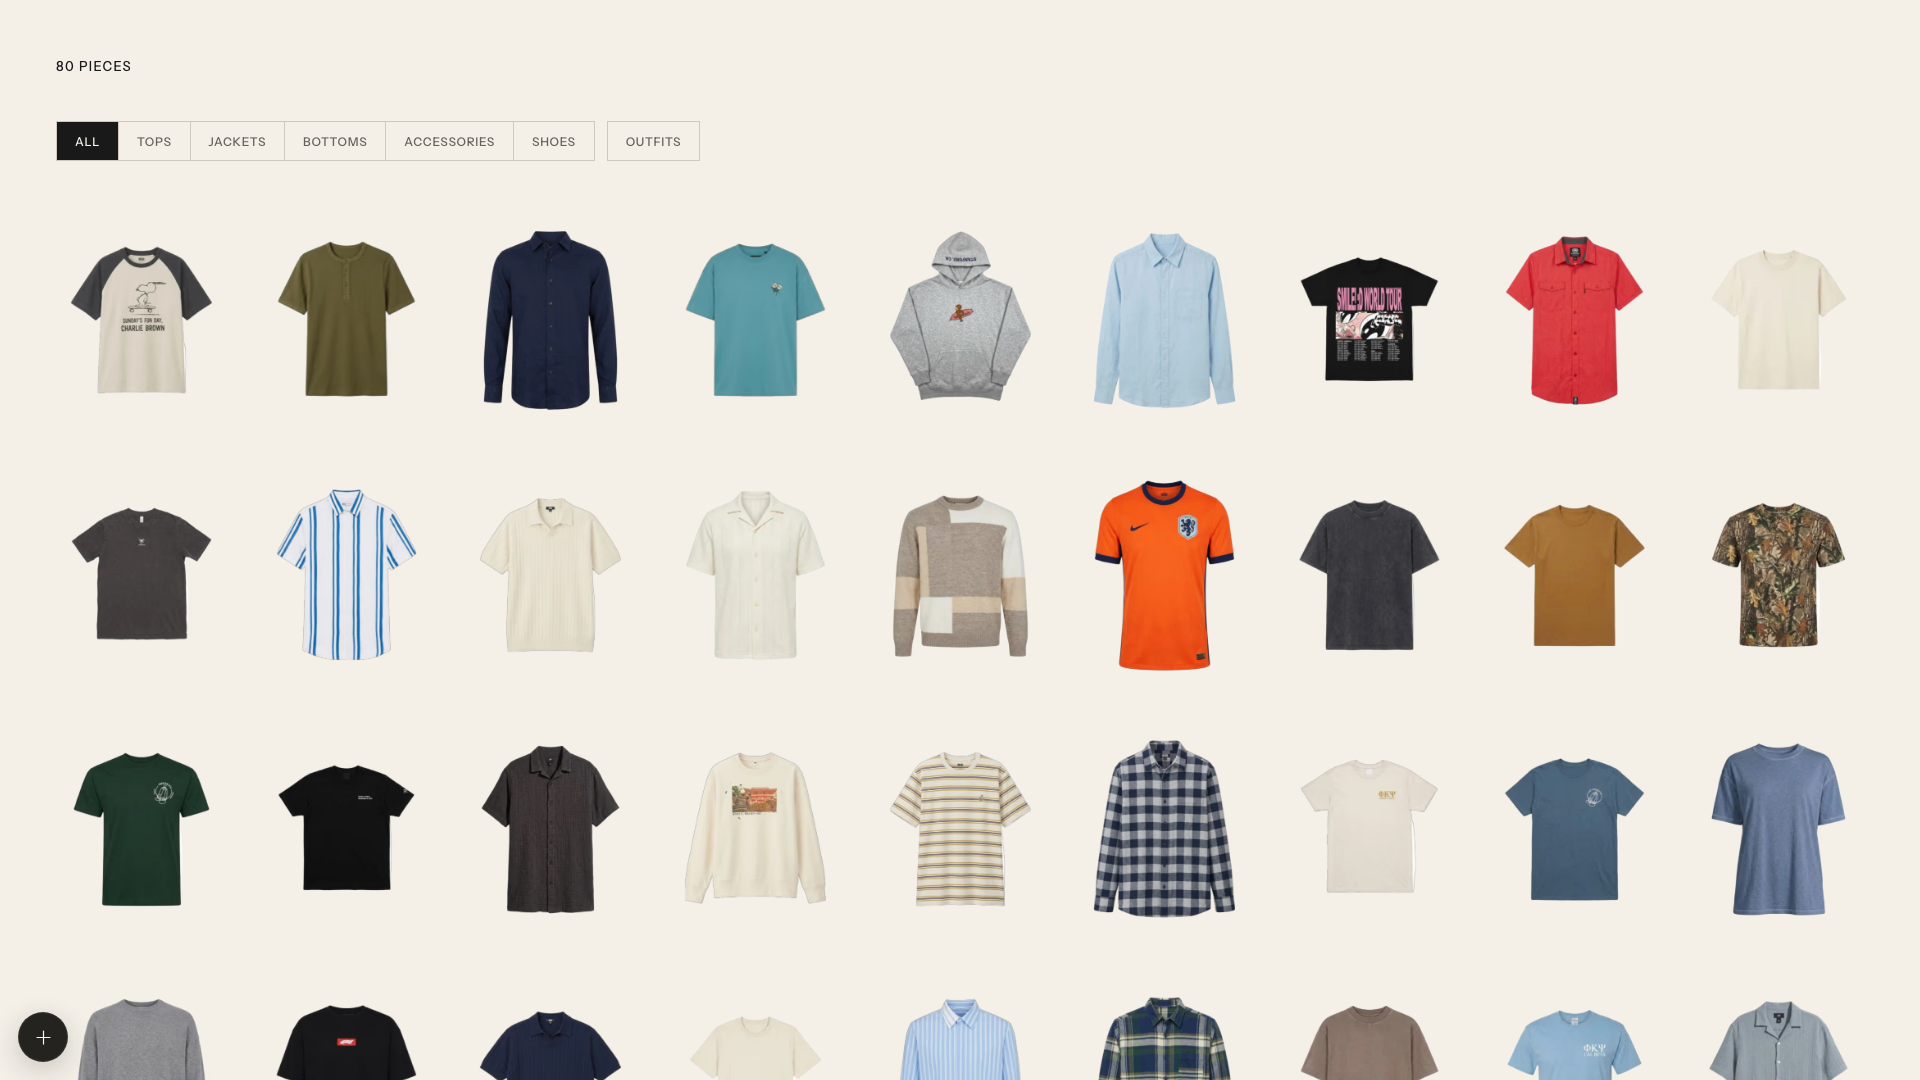
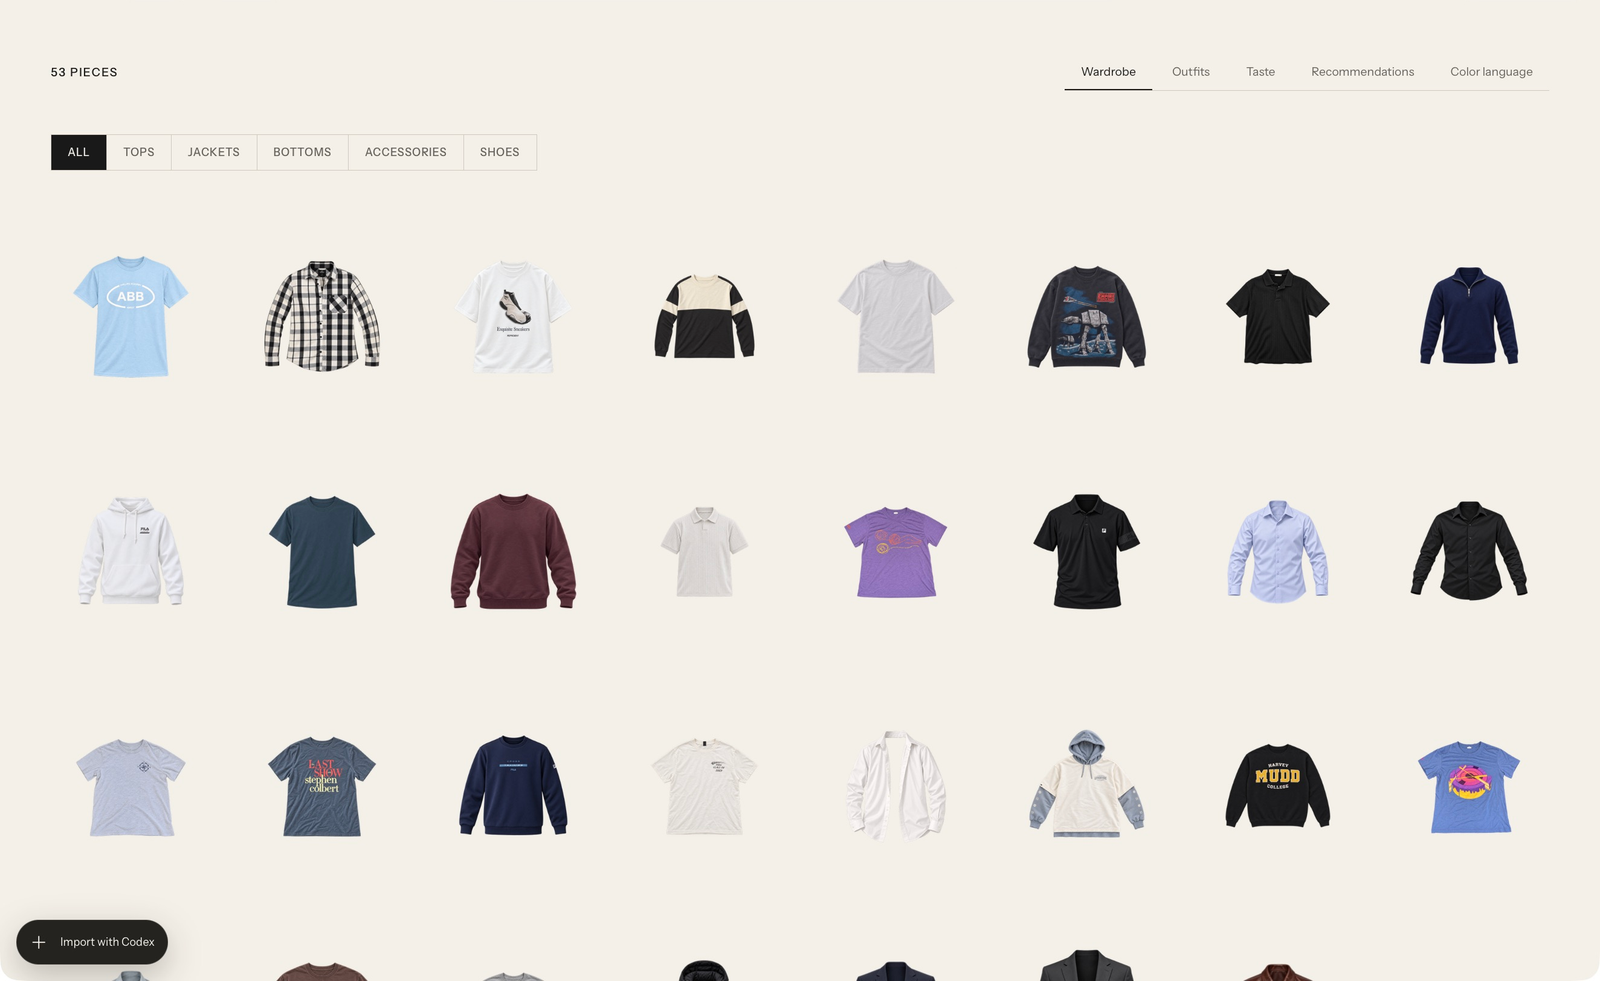
README Updates

diff --git a/README.md b/README.md
@@ -1,12 +1,42 @@
 # Clothes — my wardrobe
 
-A local wardrobe app for organizing clothes, creating outfits, understanding personal style, and finding new pieces that work with an existing collection.
+A local wardrobe app for organizing clothes, planning outfits, and discovering your style.
 
-This project builds on **[Wardrobe](https://github.com/tandpfun/wardrobe) by [Thijs Simonian (@tandpfun)](https://github.com/tandpfun)**. Thank you, Thijs, for creating and sharing the original app. The starting source was copied from upstream commit [`f44006cce7e4779e595a35b25fbbc8dabc68d7e4`](https://github.com/tandpfun/wardrobe/tree/f44006cce7e4779e595a35b25fbbc8dabc68d7e4). This version adds personal setup instructions, an outfit studio, style and color analysis, and shopping recommendations. The original MIT copyright and license are preserved in [LICENSE](LICENSE), alongside the copyright for this version's additions.
+Based on [Wardrobe](https://github.com/tandpfun/wardrobe) by [Thijs Simonian (@tandpfun)](https://github.com/tandpfun), starting from commit [`f44006c`](https://github.com/tandpfun/wardrobe/tree/f44006cce7e4779e595a35b25fbbc8dabc68d7e4). Thank you, Thijs, for sharing the original project. Its MIT license and copyright are preserved in [LICENSE](LICENSE).
 
-## Get started
+## Wardrobe
 
-Use Node.js 22 or newer and npm.
+Browse your clothes, filter by category, and edit each piece.
+
+![Current wardrobe gallery](docs/screenshots/gallery.png)
+
+## Outfits
+
+Combine owned pieces, save looks, and preview them on yourself. [Guide](docs/OUTFIT_STUDIO.md).
+
+![Outfit studio with a saved modeled look](docs/screenshots/outfits.png)
+
+## Taste
+
+See your style overview, with evidence from the clothes you own.
+
+![Taste overview and style influences](docs/screenshots/taste.png)
+
+## Recommendations
+
+Set your budget and preferences; the app refreshes your style, then finds matching products.
+
+![Saved product recommendations and styling suggestions](docs/screenshots/recommendations.png)
+
+## Color language
+
+Explore your wardrobe palette and color combinations. [Guide](docs/TASTE.md).
+
+![Wardrobe palette and color combinations](docs/screenshots/color-language.png)
+
+## Run locally
+
+Requires Node.js 22+ and npm.
 
 ```sh
 git clone https://github.com/heli-belii/clothes.git
@@ -17,40 +47,10 @@ mkdir -p data
 npm run dev -- --host 127.0.0.1
 ```
 
-Open the local address printed by Vite, normally [localhost:5173](http://localhost:5173). A fresh checkout starts with an empty wardrobe. Keep the server running while using the app.
+Open [localhost:5173](http://localhost:5173). Imports default to Codex; API imports are optional. [Setup and hosting](docs/PERSONAL_SETUP.md).
 
-Imports default to `WARDROBE_IMPORT_MODE=codex`; no API key is required for this mode. Open the project in Codex, provide your own clothing photos and identity references, and use the bundled [import-clothes skill](.agents/skills/import-clothes/SKILL.md). The optional browser importer uses separately billed API calls and must be enabled explicitly. See [the setup guide](docs/PERSONAL_SETUP.md) for both workflows.
+## Privacy and checks
 
-## Explore your wardrobe
+Personal photos, wardrobe data, and generated assets stay in Git-ignored `data/`; credentials stay in `.env`. Only reviewed README screenshots are intentionally public.
 
-- **Wardrobe:** Browse imported clothes and edit their details.
-- **Outfits:** Combine owned pieces, save and compare looks, and generate modeled previews. See [the outfit studio guide](docs/OUTFIT_STUDIO.md).
-- **Taste:** View your style profile and the clothing that supports it.
-- **Recommendations:** Set a budget and shopping preferences, then click **Find recommendations**. The app refreshes your style first and automatically researches matching products. Preferences and saved responses stay in this tab.
-- **Color language:** Explore your wardrobe palette and combinations of owned clothes. See [the Taste guide](docs/TASTE.md).
-
-The local outfit, style, and shopping runners use Codex signed in with ChatGPT. Modeled photos require your own identity references; this repository does not include them.
-
-## Keep personal files private
-
-Store original photos, identity references, cutouts, modeled images, wardrobe records, and generated results inside `data/`. Keep credentials in `.env`. Both are Git-ignored. Common photo and video formats are also ignored outside `data/` to help catch accidental additions. The only allowed tracked photos are the two unchanged public screenshots from the original project.
-
-```sh
-npm run check
-```
-
-This checks tracked working files, staged files, and available Git history for private paths, unreviewed media, and recognized secret patterns, then runs the tests and production build. CI fetches the full history and runs the same checks. The privacy check is a guard rather than a complete secret scanner; review changes before committing and never force-add personal files. See [CONTRIBUTING.md](CONTRIBUTING.md).
-
-Making the source repository public does not publish your ignored local wardrobe. Running the app as a public website is a separate task: the current app has no user authentication and should run on localhost with personal data. See [hosting notes](docs/PERSONAL_SETUP.md#build-and-hosting).
-
-## Original project screenshots
-
-These are unchanged screenshots from [tandpfun/wardrobe](https://github.com/tandpfun/wardrobe), not this copy's personal wardrobe or the latest interface.
-
-![Original Wardrobe gallery](docs/screenshots/gallery.png)
-
-![Original Wardrobe modeled editor](docs/screenshots/editor.png)
-
-## License
-
-[MIT](LICENSE). Original project: [Wardrobe](https://github.com/tandpfun/wardrobe), by [Thijs Simonian](https://github.com/tandpfun). [Original announcement](https://x.com/cdngdev/status/2076812846793650485).
+Run `npm run check` for the privacy audit, tests, and build. [Contributing](CONTRIBUTING.md).

diff --git a/docs/PERSONAL_SETUP.md b/docs/PERSONAL_SETUP.md
@@ -1,6 +1,6 @@
 # Set up your personal clothes collection
 
-This project is based on [Wardrobe](https://github.com/tandpfun/wardrobe) by [Thijs Simonian (@tandpfun)](https://github.com/tandpfun), starting from commit `f44006cce7e4779e595a35b25fbbc8dabc68d7e4`. The upstream MIT attribution is retained alongside the copyright for this version's additions. No personal wardrobe database or identity references are supplied; a fresh checkout starts empty. The documentation screenshots are unchanged public examples from the original project.
+This project is based on [Wardrobe](https://github.com/tandpfun/wardrobe) by [Thijs Simonian (@tandpfun)](https://github.com/tandpfun), starting from commit `f44006cce7e4779e595a35b25fbbc8dabc68d7e4`. The upstream MIT attribution is retained alongside the copyright for this version's additions. No personal wardrobe database or identity references are supplied; a fresh checkout starts empty. The README screenshots show this version of the app and were explicitly approved for publication.
 
 ## Run on your Mac
 
@@ -122,7 +122,7 @@ Keep the package name `wardrobe` unless you also update the import script's repo
 
 Back up the entire `data/` folder separately. Browser edits are not written back to `library.json`, so a folder backup alone does not preserve subsequent name/color/tag edits made in the gallery. Keep a consistent browser and local URL; switching browser, port, or hostname can make those edits appear missing. Avoid clearing site storage if you want to retain them.
 
-`.env`, `data/`, `node_modules/`, and `dist/` are ignored by Git. Common photo/video formats are ignored outside `data/` as well, except the two unchanged public upstream screenshots. Keep personal photos out of `public/`, which the app serves directly. Never force-add private files: ignore rules do not protect files already committed. Run `npm run check:privacy` before publishing; it checks tracked files, the index, and available history without printing secret values. The check detects common secret patterns but cannot identify every possible credential.
+`.env`, `data/`, `node_modules/`, and `dist/` are ignored by Git. Common photo/video formats are ignored outside `data/` as well, except the explicitly reviewed README screenshots. Keep personal photos out of `public/`, which the app serves directly. Never force-add private files: ignore rules do not protect files already committed. Run `npm run check:privacy` before publishing; it checks tracked files, the index, and available history without printing secret values. The check detects common secret patterns but cannot identify every possible credential.
 
 ## Build and hosting
 

diff --git a/CONTRIBUTING.md b/CONTRIBUTING.md
@@ -9,7 +9,7 @@ npm run check
 
 `check` runs the repository privacy audit, Taste and outfit tests, and production build. CI uses the full Git history for the same audit.
 
-Keep `.env`, credentials, personal photos, wardrobe records, and generated assets out of Git. Store all personal assets under the ignored `data/` directory. Do not force-add ignored files. Common photo/video formats are ignored throughout the repository; only the two unchanged original project screenshots are approved for tracking. To add a public visual asset, review its provenance and privacy before updating the ignore rules and privacy check.
+Keep `.env`, credentials, personal photos, wardrobe records, and generated assets out of Git. Store all personal assets under the ignored `data/` directory. Do not force-add ignored files. Common photo/video formats are ignored throughout the repository; only the exact reviewed README screenshots are approved for tracking. To add a public visual asset, review its provenance and privacy before updating the ignore rules and approved hashes in the privacy check.
 
 Before committing, inspect `git status --short` and the staged diff, then run `npm run check:privacy`. The audit checks tracked working files, staged contents, and available history, and reports possible secrets without printing their values. It uses recognized patterns and is not a complete secret scanner. If a private file was already committed, ignoring or deleting it does not remove it from history; resolve that before publishing.
 
